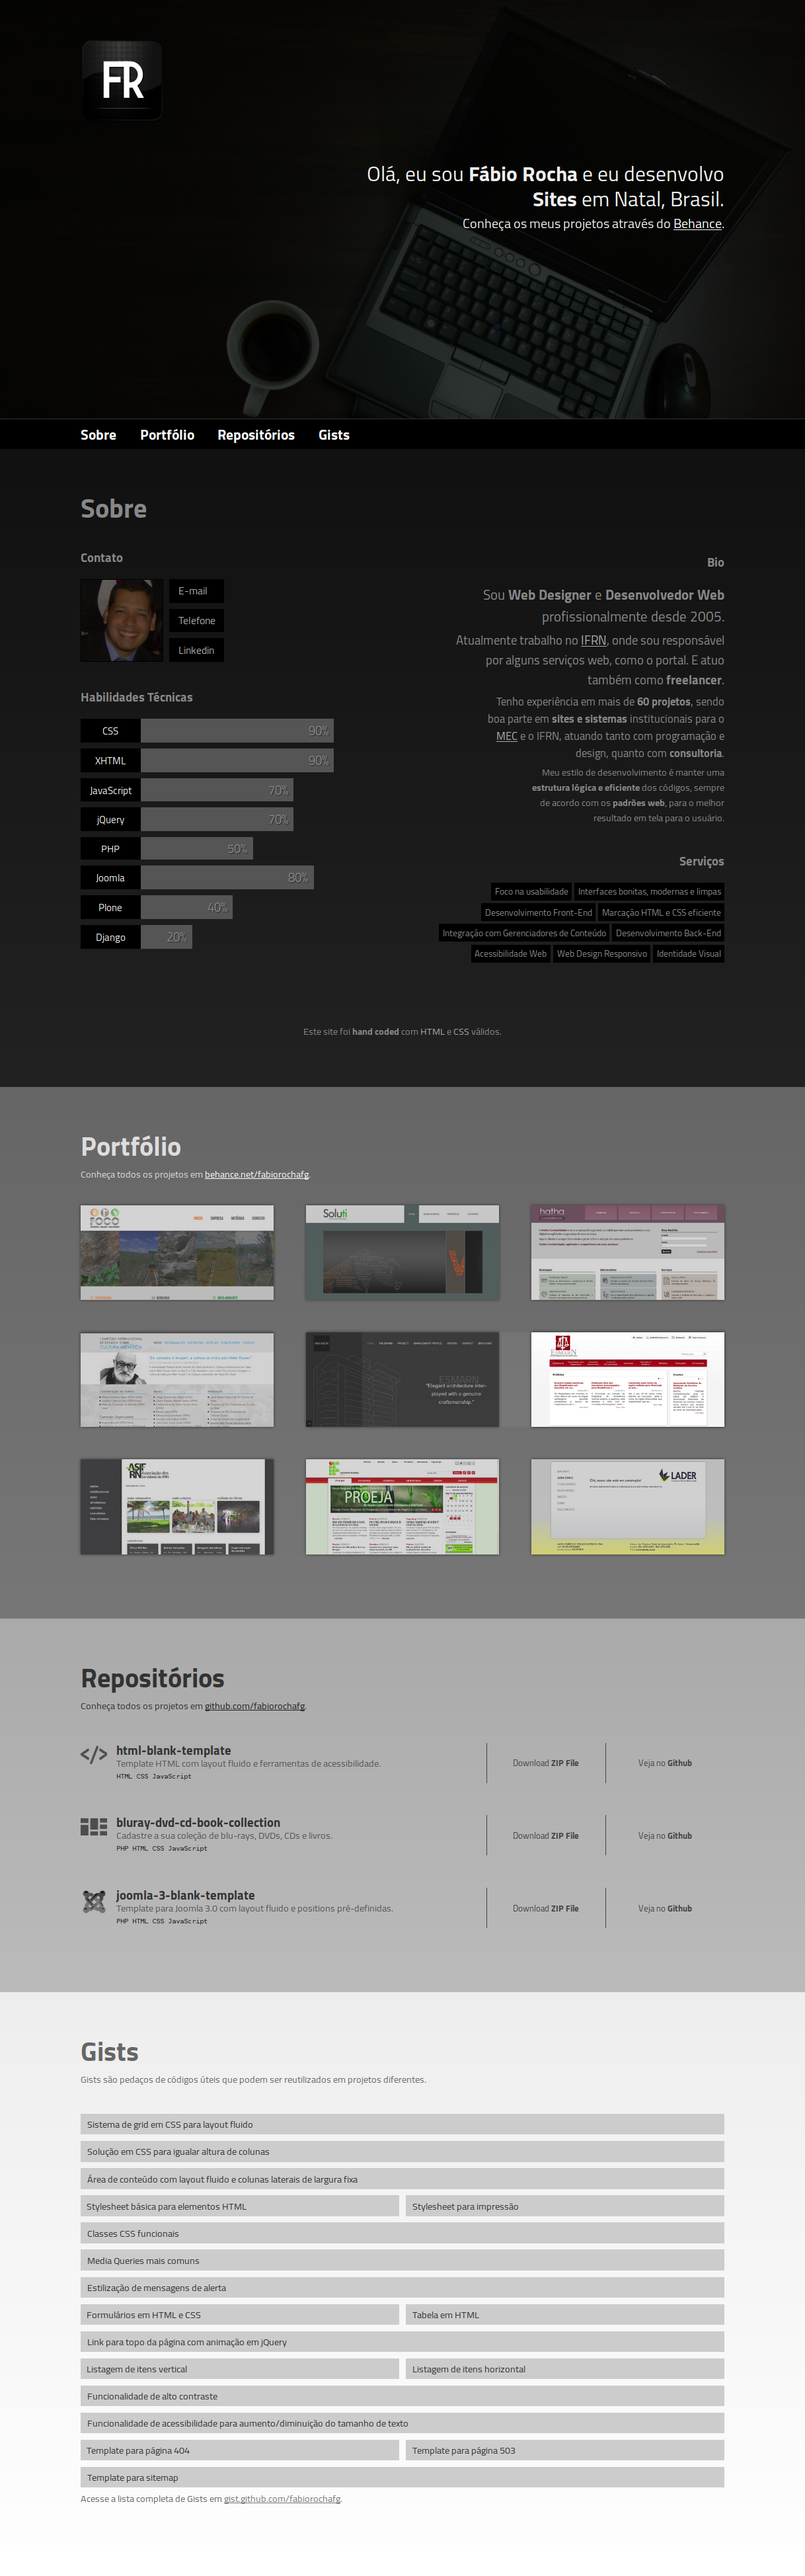
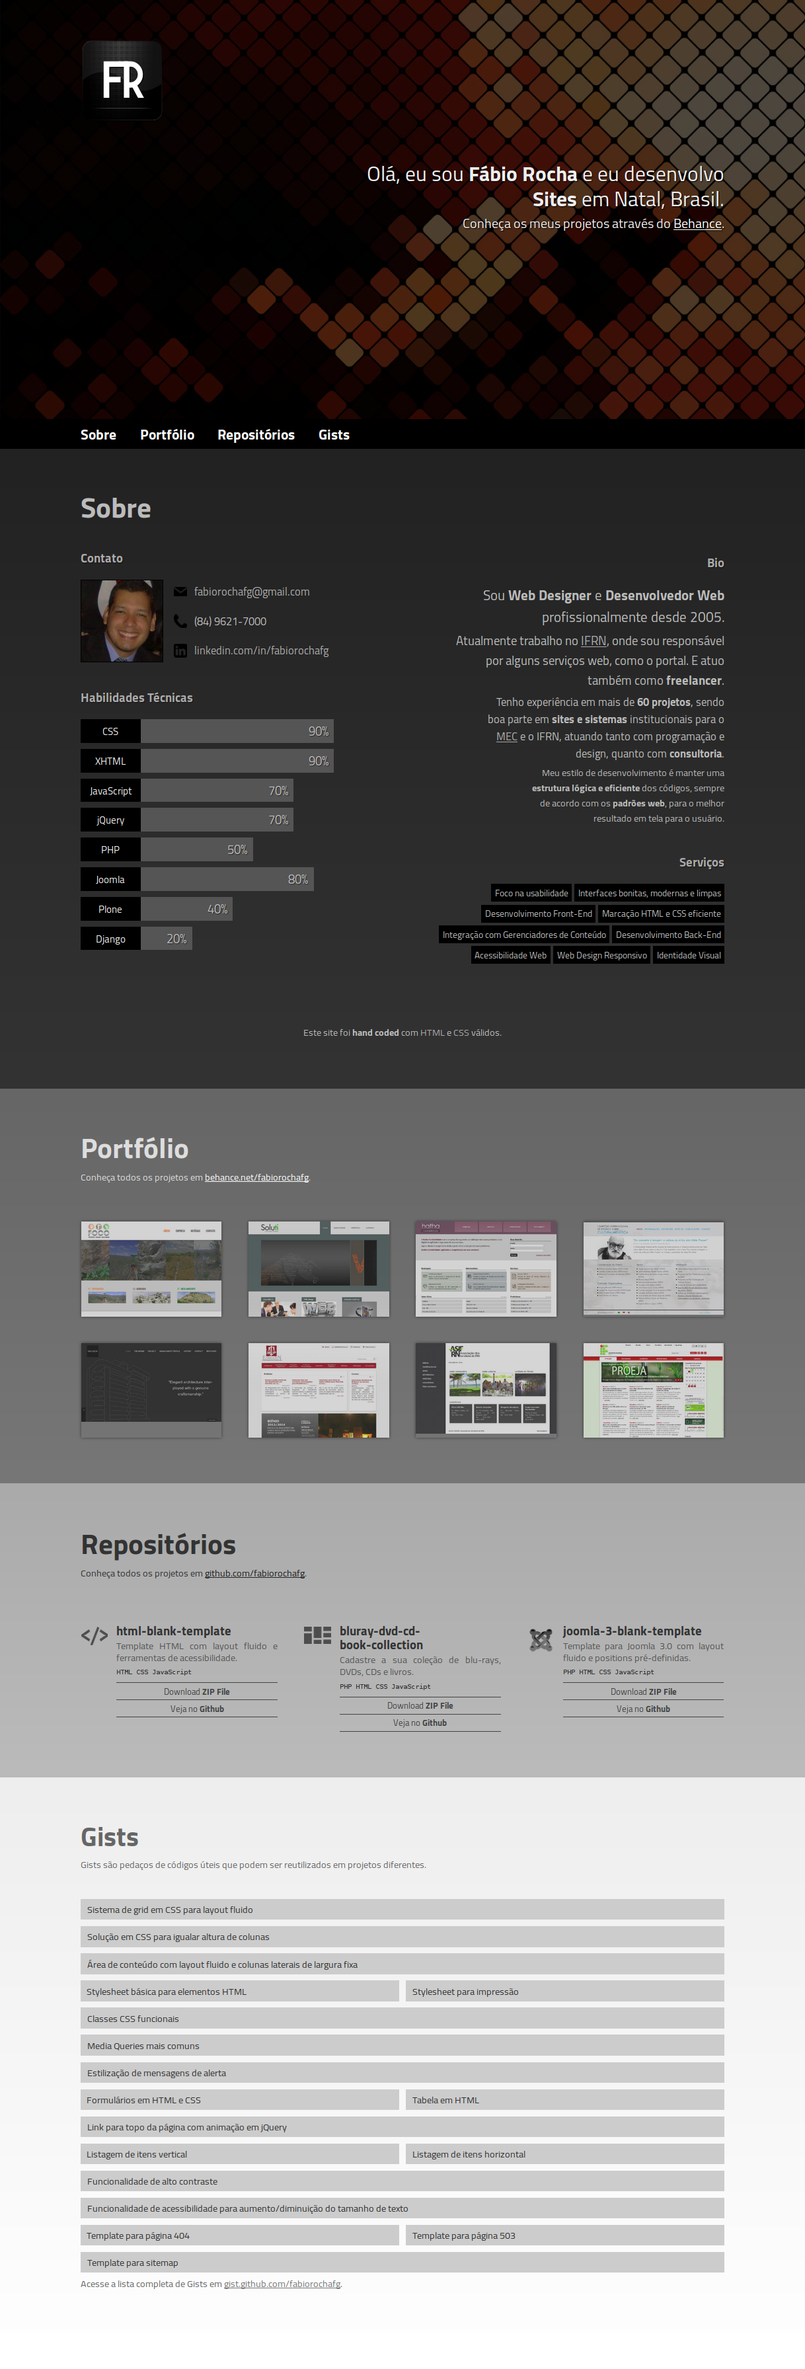
Adding a template preview image.

diff --git a/files/main.css b/files/main.css
@@ -125,6 +125,8 @@ ul {
 }
 #header p:nth-child(2) {
     font-size: 140%;
+    line-height: 26px;
+    padding: 5px 0 0;
 }
 
 /* Menu */
@@ -285,6 +287,10 @@ ul {
     text-shadow: 1px 1px 1px #222222;
 }
 #about .contact dt {
+    background-color: transparent;
+    background-repeat: no-repeat;
+    background-position: center center;
+    background-size: 100% auto;
     display: block;
     height: 40px;
     margin: 0 12px 0 7px;
@@ -294,21 +300,12 @@ ul {
 }
 #about .contact .email {
     background-image: url(../images/contact-email.png);
-    background-repeat: no-repeat;
-    background-position: center center;
-    background-size: 100% auto;
 }
 #about .contact .linkedin {
     background-image: url(../images/contact-linkedin.png);
-    background-repeat: no-repeat;
-    background-position: center center;
-    background-size: 100% auto;
 }
 #about .contact .telefone {
     background-image: url(../images/contact-telefone.png);
-    background-repeat: no-repeat;
-    background-position: center center;
-    background-size: 100% auto;
 }
 #about .percent dd {
     padding: 5px 2%;
